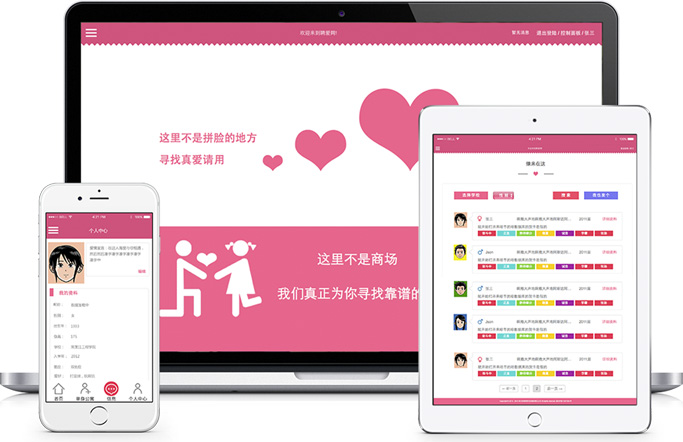
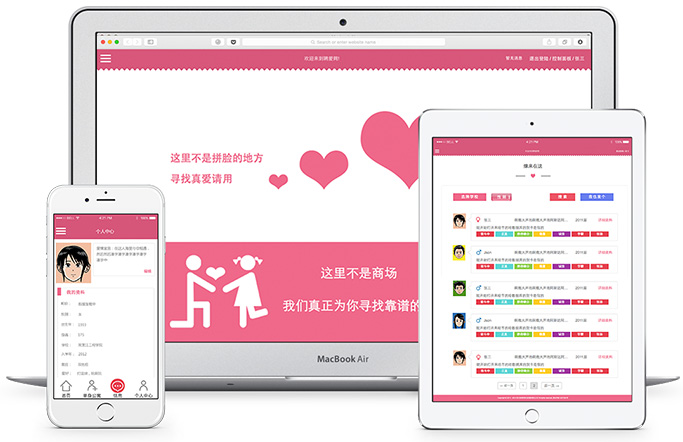
style fix

diff --git a/public/assets/css/courtship.css b/public/assets/css/courtship.css
@@ -597,7 +597,9 @@ div.footer {
 	height: 20px;
 	padding: 15px 0;
 	background: #ef698a;
-	position: absolute;
+	float: left;
+	margin: 5em 0 0 0;
+	display: inline;
 }
 
 div.footer a {

diff --git a/public/assets/css/details.css b/public/assets/css/details.css
@@ -195,7 +195,9 @@ div.footer {
 	height: 20px;
 	padding: 15px 0;
 	background: #ef698a;
-	position: absolute;
+	float: left;
+	margin: 5em 0 0 0;
+	display: inline;
 }
 
 div.footer a {

diff --git a/public/assets/css/fatehere.css b/public/assets/css/fatehere.css
@@ -332,7 +332,9 @@ div.footer {
 	height: 20px;
 	padding: 15px 0;
 	background: #ef698a;
-	position: absolute;
+	float: left;
+	margin: 5em 0 0 0;
+	display: inline;
 }
 
 div.footer a {

diff --git a/public/assets/css/forum-post.css b/public/assets/css/forum-post.css
@@ -578,7 +578,9 @@ div.footer {
 	height: 20px;
 	padding: 15px 0;
 	background: #ef698a;
-	position: absolute;
+	float: left;
+	margin: 5em 0 0 0;
+	display: inline;
 }
 
 div.footer a {

diff --git a/public/assets/css/forum.css b/public/assets/css/forum.css
@@ -274,7 +274,9 @@ div.footer {
 	height: 20px;
 	padding: 15px 0;
 	background: #ef698a;
-	position: absolute;
+	float: left;
+	margin: 5em 0 0 0;
+	display: inline;
 }
 
 div.footer a {

diff --git a/public/assets/css/notifications.css b/public/assets/css/notifications.css
@@ -632,7 +632,9 @@ div.footer {
 	height: 20px;
 	padding: 15px 0;
 	background: #ef698a;
-	position: absolute;
+	float: left;
+	margin: 5em 0 0 0;
+	display: inline;
 }
 
 div.footer a {

diff --git a/public/assets/css/preInfo.css b/public/assets/css/preInfo.css
@@ -412,7 +412,9 @@ div.footer {
 	height: 20px;
 	padding: 15px 0;
 	background: #ef698a;
-	position: absolute;
+	float: left;
+	margin: 5em 0 0 0;
+	display: inline;
 }
 
 div.footer a {
